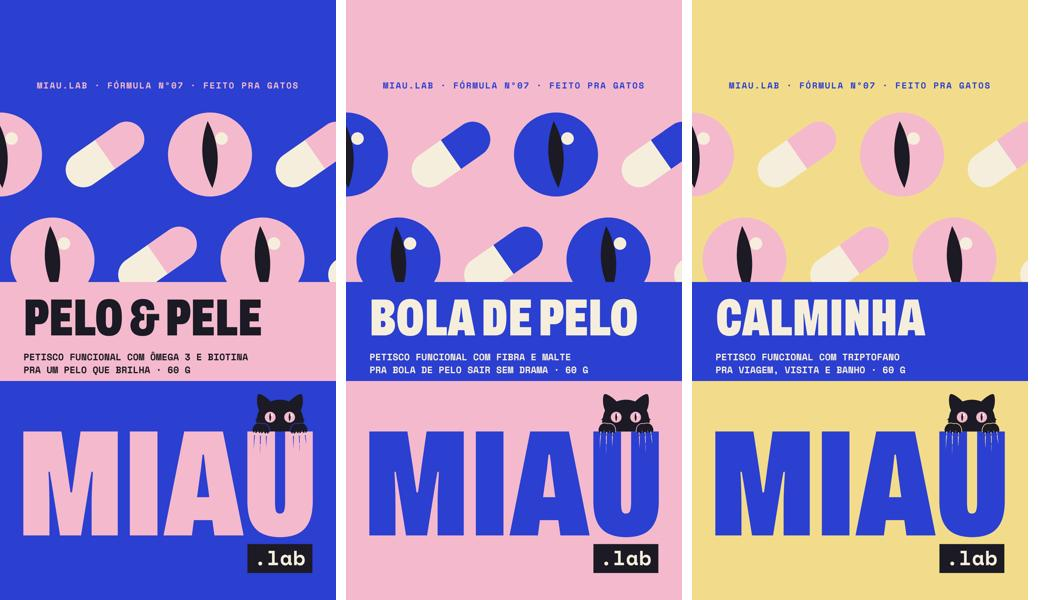
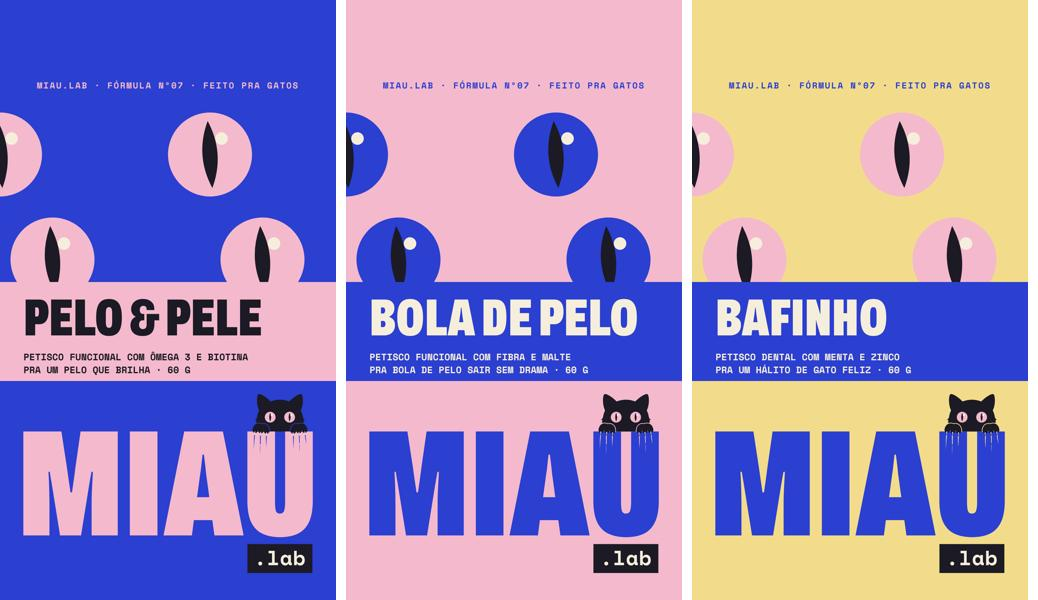
MIAU.LAB: pouches de petisco com padrão só de olhos (sem cápsula), nomes de gato e nota da lógica de produto
Claude-Session: https://claude.ai/code/session_01CmCiK9WG5RWJH1hBNUU9U9

diff --git a/Emi/ems-5-direcoes-pet/projeto/marcas/miaulab/post/arte.html b/Emi/ems-5-direcoes-pet/projeto/marcas/miaulab/post/arte.html
@@ -22,7 +22,7 @@ Promise.all(['500 100px IS', '400 100px Mea', '900 100px Archivo'].map(f => docu
 // padrão da marca (a partir do case RUTH da hola.carlydesign: embalagem 100% na cor, padrão gráfico grande, nome gigante
 // cortado e texto miúdo em mono — a Emi: "o saco vai ser bege? essas são as coisas que a gente escolheu?").
 // O padrão é nosso: olho de gato (o mesmo do logo: íris rosa, pupila em fenda, brilho) alternado com cápsula creme.
-function padrao(x, y, w, h, cel, fundo) {
+function padrao(x, y, w, h, cel, fundo, tipo = 'remedio') {
   let s = `<svg style="position:absolute;left:${x}px;top:${y}px" width="${w}" height="${h}" viewBox="0 0 ${w} ${h}"><rect width="${w}" height="${h}" fill="${fundo}"/>`;
   const r = cel * .4;
   for (let j = -1, l = 0; j * cel < h + cel; j++, l++) for (let i = -1; i * cel < w + cel; i++) {
@@ -30,6 +30,22 @@ function padrao(x, y, w, h, cel, fundo) {
     const olhoCor = fundo === C.rosa ? C.cobalto : C.rosa;
     if ((i + l) % 2 === 0) s += `<g transform="translate(${cx} ${cy}) rotate(${(i * 7 + l * 13) % 2 ? 6 : -4})"><circle r="${r}" fill="${olhoCor}"/>`
       + `<path d="M0 ${-r * .8} Q${r * .36} 0 0 ${r * .8} Q${-r * .36} 0 0 ${-r * .8} Z" fill="${C.nanquim}"/><circle cx="${r * .3}" cy="${-r * .36}" r="${r * .15}" fill="#F6EEDC"/></g>`;
+    else if (tipo === 'olhos') continue;   // petisco: só o olho do logo (a Emi: "coisa vetorizada… feio demais" para pente/novelo/menta/peixe)
+    else if (tipo === 'pente') s += `<g transform="translate(${cx} ${cy}) rotate(-28)">`
+      // pentinho de gato (pelo & pele): costas arredondadas creme + dentes na cor do olho
+      + `<rect x="${-r * 1.05}" y="${-r * .5}" width="${r * 2.1}" height="${r * .42}" rx="${r * .21}" fill="#F6EEDC"/>`
+      + Array.from({ length: 9 }, (_, t) => `<rect x="${-r * .92 + t * r * .23}" y="${-r * .2}" width="${r * .11}" height="${r * .68}" rx="${r * .055}" fill="${olhoCor}"/>`).join('') + '</g>';
+    else if (tipo === 'novelo') s += `<g transform="translate(${cx} ${cy}) rotate(-15)">`
+      // novelo de lã (bola de pelo): bola creme com fios na cor do olho e uma pontinha de fio solta
+      + `<circle r="${r * .7}" fill="#F6EEDC"/>`
+      + [[-.5, .25], [-.15, .45], [.2, .5]].map(([o, k]) => `<path d="M${-r * .62} ${r * o} Q0 ${r * (o - k)} ${r * .62} ${r * (o + .1)}" fill="none" stroke="${olhoCor}" stroke-width="${r * .085}" stroke-linecap="round"/>`).join('')
+      + `<path d="M${-r * .25} ${-r * .62} Q${r * .2} ${-r * .05} ${-r * .05} ${r * .66}" fill="none" stroke="${olhoCor}" stroke-width="${r * .085}" stroke-linecap="round"/>`
+      + `<path d="M${r * .62} ${r * .3} Q${r * 1.0} ${r * .55} ${r * .9} ${r * .9} T${r * 1.15} ${r * 1.1}" fill="none" stroke="#F6EEDC" stroke-width="${r * .085}" stroke-linecap="round"/></g>`;
+    else if (tipo === 'menta') s += `<g transform="translate(${cx} ${cy}) rotate(-30)">`   // no manteiga a folha creme sumia: vira cobalto
+      // folhinha de menta (bafinho): duas folhas creme com nervura na cor do olho
+      + [[-1, -.2], [1, .25]].map(([lado, dy]) => `<g transform="translate(${lado * r * .32} ${r * dy}) rotate(${lado * 32})"><path d="M0 ${r * .62} C${-r * .55} ${r * .2} ${-r * .45} ${-r * .45} 0 ${-r * .72} C${r * .45} ${-r * .45} ${r * .55} ${r * .2} 0 ${r * .62} Z" fill="${fundo === '#F2DC8B' ? C.cobalto : '#F6EEDC'}"/>`
+        + `<path d="M0 ${r * .55} L0 ${-r * .55}" stroke="${fundo === '#F2DC8B' ? '#F6EEDC' : olhoCor}" stroke-width="${r * .07}" stroke-linecap="round"/>`
+        + `<path d="M0 ${r * .1} L${-r * .22} ${-r * .12} M0 ${-r * .15} L${r * .2} ${-r * .36}" stroke="${fundo === '#F2DC8B' ? '#F6EEDC' : olhoCor}" stroke-width="${r * .06}" stroke-linecap="round"/></g>`).join('') + '</g>';
     else s += `<g transform="translate(${cx} ${cy}) rotate(-35)"><rect x="${-r * 1.05}" y="${-r * .42}" width="${r * 2.1}" height="${r * .84}" rx="${r * .42}" fill="#F6EEDC"/>`
       + `<rect x="0" y="${-r * .42}" width="${r * 1.05}" height="${r * .84}" rx="${r * .42}" fill="${olhoCor}"/><rect x="0" y="${-r * .42}" width="${r * .45}" height="${r * .84}" fill="${olhoCor}"/></g>`;
   }
@@ -44,7 +60,7 @@ if (peca === 'pouch') {
   p.style.background = fundo;
   const m = W * .07, cel = W / 3.2;
   p.insertAdjacentHTML('beforeend', `<div style="position:absolute;left:0;right:0;top:${H * .135}px;text-align:center;font:700 ${W * .026}px/1 Mono;letter-spacing:.12em;color:${tinta}">MIAU.LAB · FÓRMULA Nº07 · FEITO PRA GATOS</div>`);
-  const pTop = H * .17, pH = H * .3; padrao(0, pTop, W, pH, cel, fundo);
+  const pTop = H * .17, pH = H * .3; padrao(0, pTop, W, pH, cel, fundo, q.get('icone') || 'olhos');   // petisco nunca leva cápsula (cápsula é dos remédios)
   const fTop = pTop + pH, fH = H * .165;
   p.insertAdjacentHTML('beforeend', `<div style="position:absolute;left:0;top:${fTop}px;width:${W}px;height:${fH}px;background:${faixa};color:${corFaixaTexto};box-sizing:border-box;padding:${fH * .14}px ${m}px 0">
      <div style="font:900 ${W * .155}px/.86 Archivo;font-stretch:62%;letter-spacing:.005em">${nome}</div>

diff --git a/.claude/skills/artes-clientes/clientes/ems.md b/.claude/skills/artes-clientes/clientes/ems.md
@@ -176,6 +176,8 @@ Referências e o que saiu de cada uma: `Emi/ems-5-direcoes-pet/referencias/marca
   - Embalagem SEMPRE 100% nas cores escolhidas da marca, nunca o material cru ("o saco vai ser bege? essas são as coisas que a gente escolheu?"). Referência: case RUTH da hola.carlydesign (`referencias/miaulab/post-ruth-carly`): embalagem toda na cor, padrão gráfico grande, texto miúdo em mono, grão de filme nas fotos.
   - O logo NUNCA é cortado na embalagem ("você cortou o MIAU, que é o logo, o mais importante"), mesmo que a referência corte o nome dela.
   - Ela não quer mockup montado na mão com cara de colagem nem fundo bege de mockup grátis. O caminho que ela pediu: Magnific Spaces, Nano Banana Pro 2K (`imagen-nano-banana-2`), com a arte plana como referência, para a IA já entregar o mockup pronto. Pela integração (MCP) o ilimitado NÃO vale (cobra 75 créditos por imagem); no site vale (símbolo de infinito). Então: montar o espaço com os nós prontos (arte plana conectada na referência + prompt) e pedir para ela clicar em gerar no site.
+  - Lógica de produto (a Emi: "não faz sentido ter comprimidos se são petiscos"): petisco (pouch, pote) nunca leva cápsula/comprimido; remédio vai em caixinha de remédio com cartela. Nomes bem de gato: pelo & pele, bola de pelo, bafinho (petiscos); calminha, mobilidade, xixi feliz (remédios).
+  - Ícones desenhados no padrão (peixe, pente, novelo, menta) = "coisa vetorizada, feio demais". O padrão dos petiscos é só o olho de gato do logo.
   - Mockups que ela achou bonitos: os potes empilhados com o gato real cheirando (fundo menta) e a caixa com a cartela de comprimidos (fundo rosa) da direção 05.
 - **Banho e tosa (direção 03): pelo solto.**
   - Pesquisa: `referencias/pelo-solto`. Ela escolheu 2 Haley Sue, 3 Moon Gazer e "principalmente" 20 Barking Barber.
